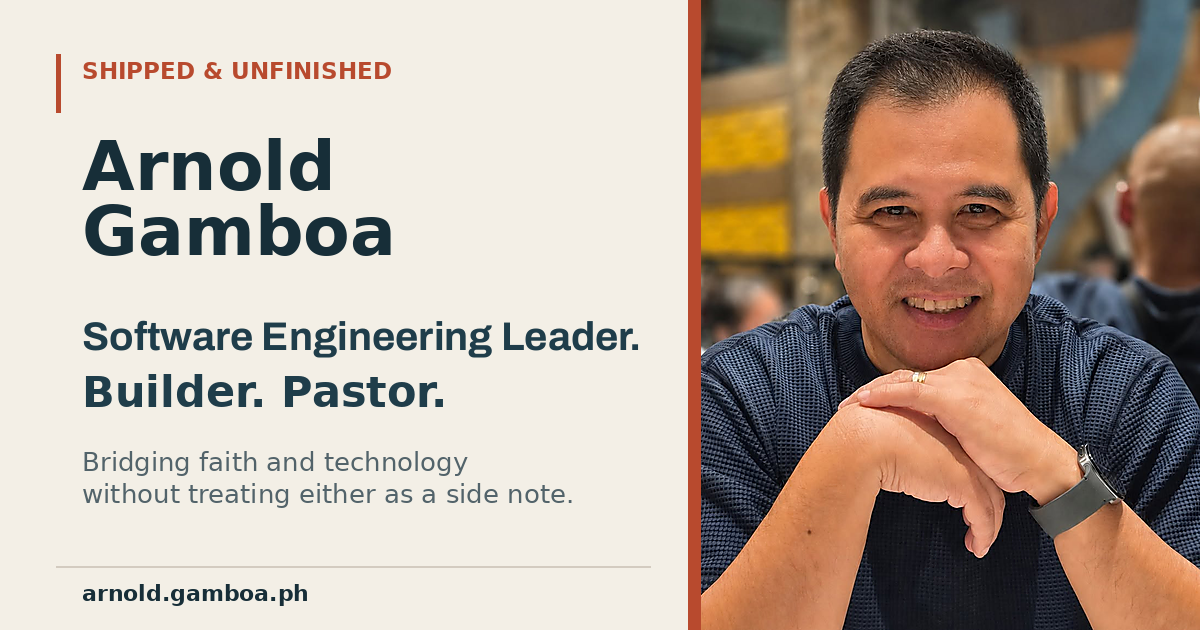
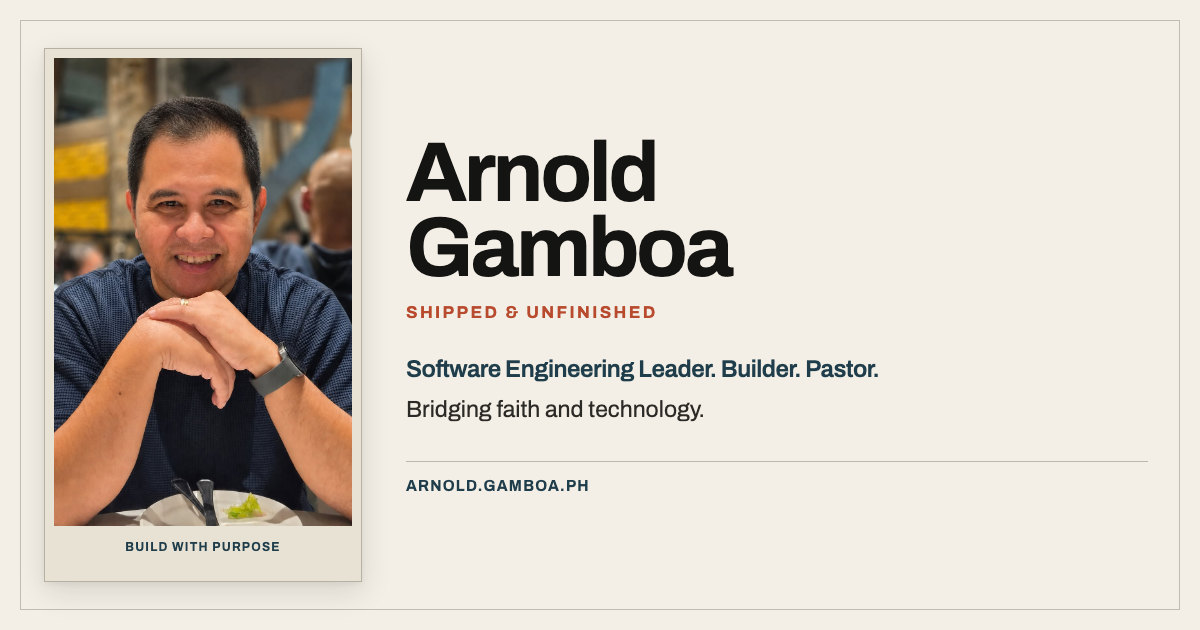
Add an About page and a paper-stock default OG image.
Give visitors a plain account of the work and LifeCity, drop the ArnoldCGamboa.com home link, and share a card that matches the site.

diff --git a/src/styles/global.css b/src/styles/global.css
@@ -554,6 +554,15 @@ a:focus-visible {
 	color: var(--ink);
 }
 
+.page h2 {
+	margin: 1.85rem 0 0.65rem;
+	font-size: var(--text-lg);
+	font-weight: 700;
+	letter-spacing: -0.02em;
+	line-height: 1.2;
+	color: var(--ink);
+}
+
 .page__lede {
 	margin: 0 0 1.75rem;
 	padding-bottom: 1.25rem;
